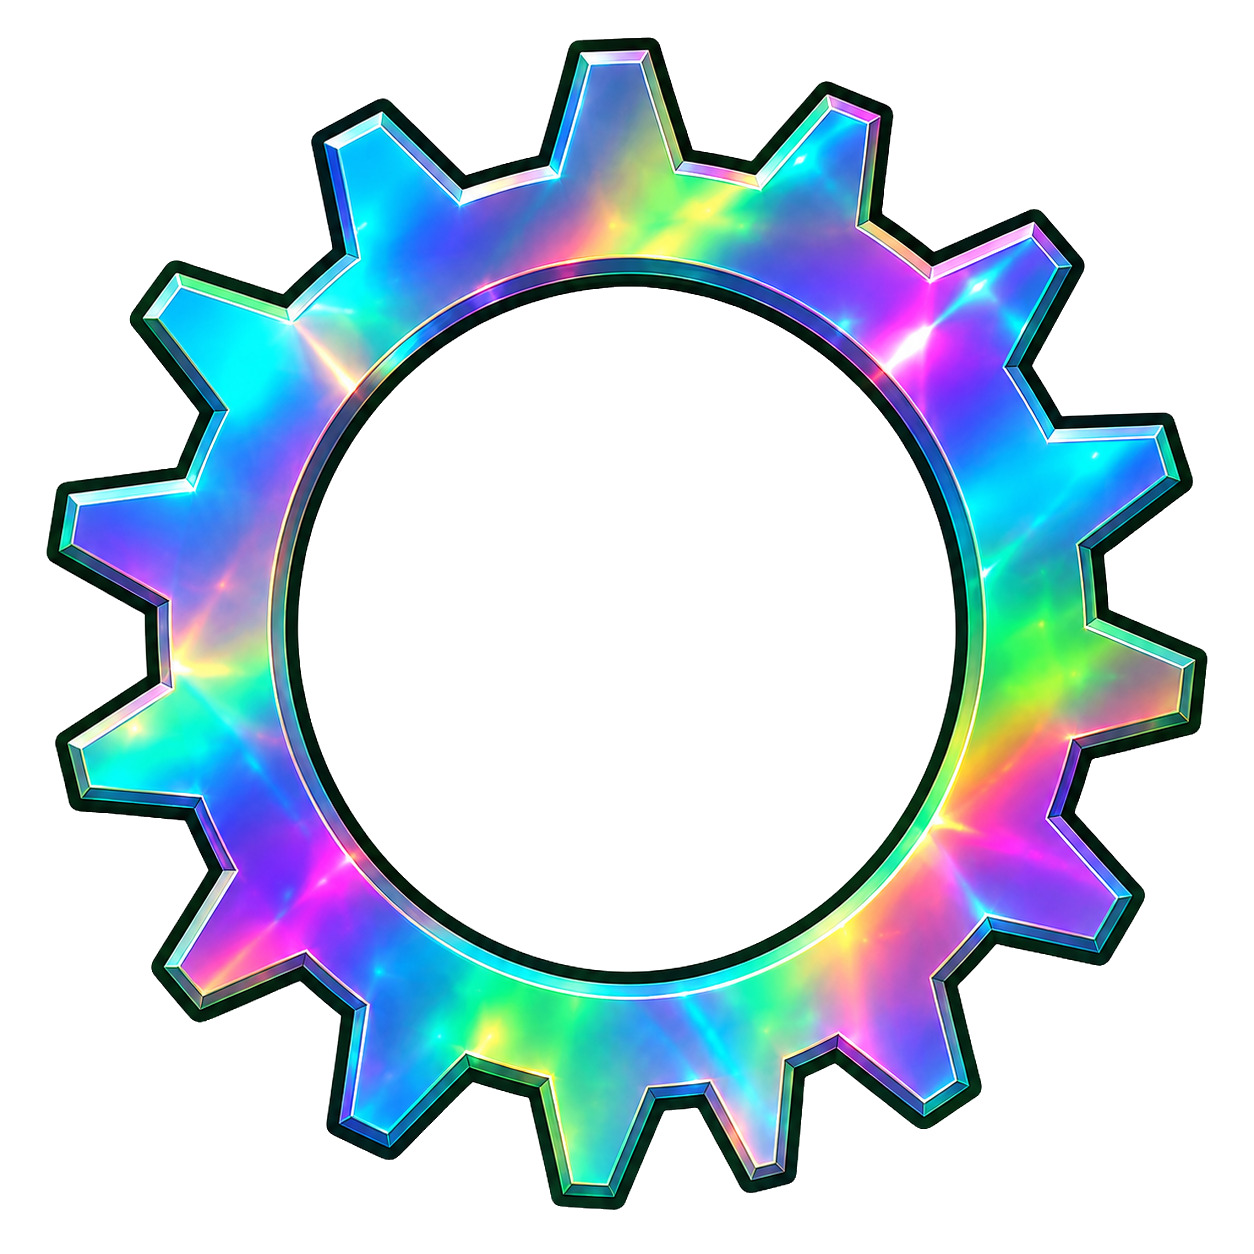
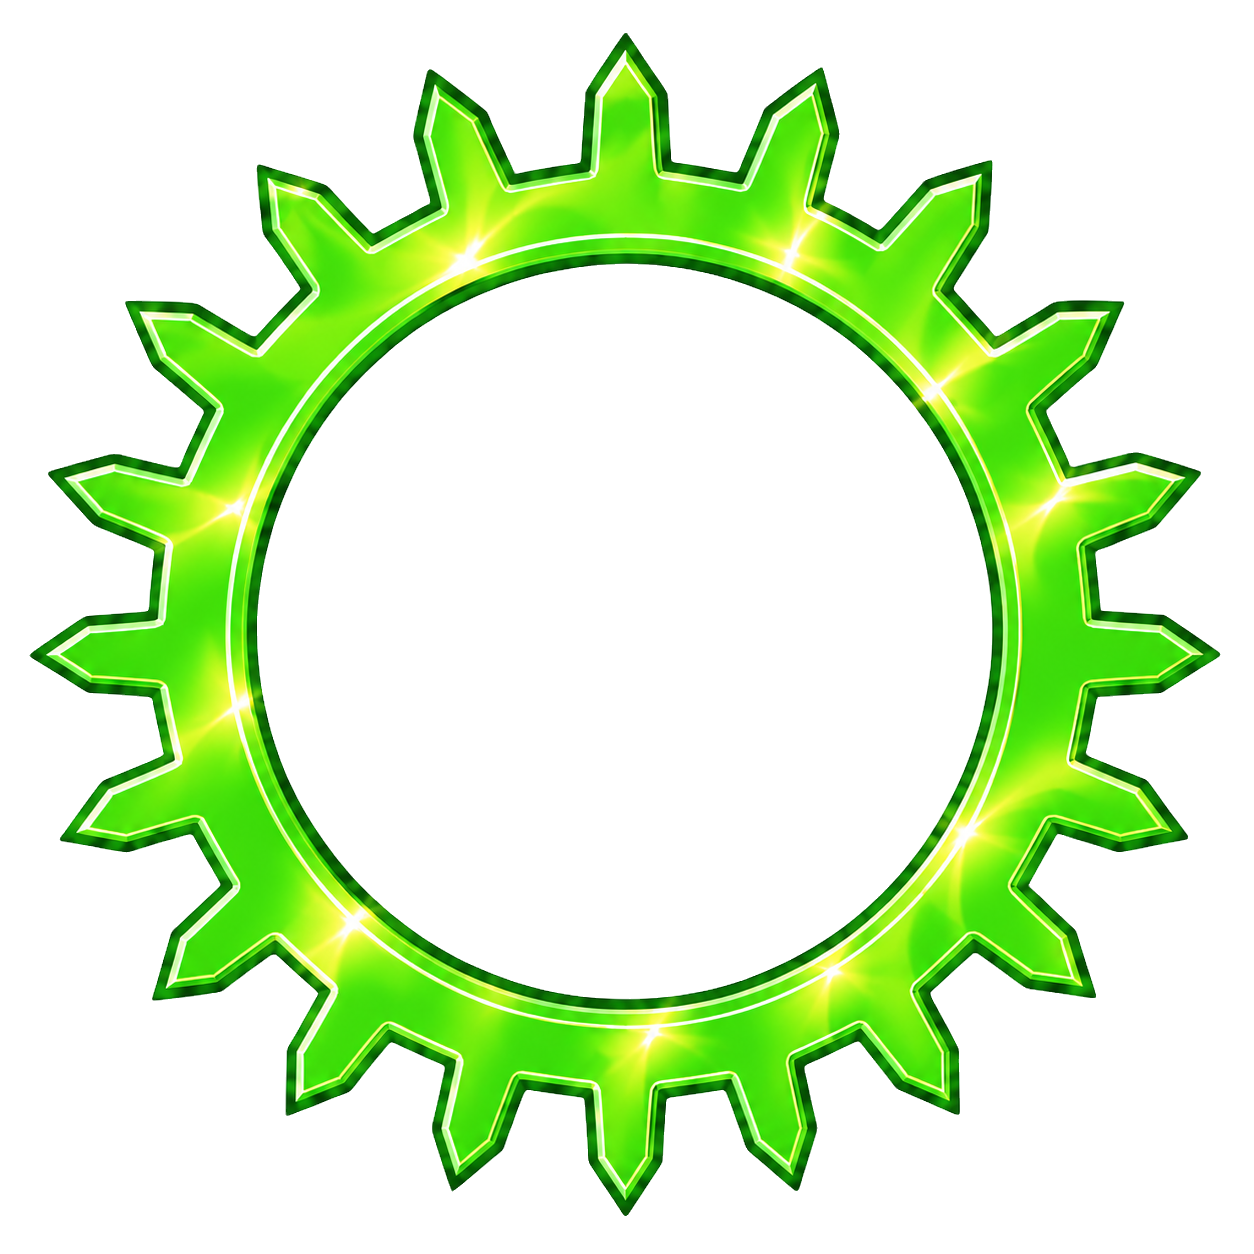
feat: add animated holographic gear effect and aura overlay

diff --git a/app/globals.css b/app/globals.css
@@ -2429,18 +2429,89 @@
   0%, 100% { opacity: 0.35; }
   50%      { opacity: 0.7; }
 }
+/* Brilho holográfico: o contorno da engrenagem troca de cor em loop */
+@keyframes gp-gear-holo {
+  0% {
+    filter:
+      drop-shadow(0 0 4px rgba(140, 255, 170, 0.95))
+      drop-shadow(0 0 10px rgba(0, 230, 255, 0.7))
+      drop-shadow(0 0 18px rgba(180, 90, 255, 0.45));
+  }
+  25% {
+    filter:
+      drop-shadow(0 0 4px rgba(120, 240, 255, 0.95))
+      drop-shadow(0 0 10px rgba(180, 90, 255, 0.7))
+      drop-shadow(0 0 18px rgba(255, 90, 200, 0.45));
+  }
+  50% {
+    filter:
+      drop-shadow(0 0 4px rgba(255, 140, 235, 0.95))
+      drop-shadow(0 0 10px rgba(255, 210, 90, 0.7))
+      drop-shadow(0 0 18px rgba(120, 255, 180, 0.45));
+  }
+  75% {
+    filter:
+      drop-shadow(0 0 4px rgba(255, 235, 130, 0.95))
+      drop-shadow(0 0 10px rgba(120, 255, 190, 0.7))
+      drop-shadow(0 0 18px rgba(0, 200, 255, 0.45));
+  }
+  100% {
+    filter:
+      drop-shadow(0 0 4px rgba(140, 255, 170, 0.95))
+      drop-shadow(0 0 10px rgba(0, 230, 255, 0.7))
+      drop-shadow(0 0 18px rgba(180, 90, 255, 0.45));
+  }
+}
+/* Aura em arco-íris girando por trás da engrenagem */
+@keyframes gp-gear-aura {
+  from { transform: rotate(0deg); }
+  to   { transform: rotate(-360deg); }
+}
+@keyframes gp-gear-aura-pulse {
+  0%, 100% { opacity: 0.35; }
+  50%      { opacity: 0.7; }
+}
 
 .gp-equip-chain {
   animation: gp-gear-in 0.18s ease-out both;
 }
+/* Camada que gira */
 .gp-equip-chain__gear {
   animation: gp-gear-spin var(--gear-dur, 6s) linear infinite;
   animation-direction: var(--gear-dir, normal);
-  filter: drop-shadow(0 0 5px rgba(120, 255, 235, 0.55));
-  opacity: 0.85;
+  opacity: 0.9;
+}
+/* A imagem recebe o brilho holográfico (separado do giro para que o
+   filter animado não conflite com o transform) */
+.gp-equip-chain__gear img {
+  animation: gp-gear-holo 3.2s linear infinite;
+}
+.gp-equip-chain__aura {
+  background: conic-gradient(
+    from 0deg,
+    rgba(120, 255, 180, 0.9),
+    rgba(0, 225, 255, 0.9),
+    rgba(150, 110, 255, 0.9),
+    rgba(255, 110, 210, 0.9),
+    rgba(255, 225, 110, 0.9),
+    rgba(120, 255, 180, 0.9)
+  );
+  mask-image: radial-gradient(circle, transparent 46%, black 60%, black 78%, transparent 92%);
+  -webkit-mask-image: radial-gradient(circle, transparent 46%, black 60%, black 78%, transparent 92%);
+  filter: blur(7px);
+  animation:
+    gp-gear-aura 5s linear infinite,
+    gp-gear-aura-pulse 2.4s ease-in-out infinite;
 }
 .gp-equip-chain__halo {
   animation: gp-gear-halo 1.8s ease-in-out infinite;
+}
+
+@media (prefers-reduced-motion: reduce) {
+  .gp-equip-chain__aura,
+  .gp-equip-chain__gear img {
+    animation: none;
+  }
 }
 
 /* Static resting shadow for field cards that shouldn't animate

diff --git a/components/game/equip-chain-overlay.tsx b/components/game/equip-chain-overlay.tsx
@@ -20,6 +20,8 @@ export function EquipChainOverlay({
     <div className="gp-equip-chain pointer-events-none absolute -inset-2 z-40" aria-hidden="true">
       {/* Brilho suave e transparente em volta da carta */}
       <div className="gp-equip-chain__halo absolute inset-1 rounded-sm bg-cyan-300/20 blur-[6px]" />
+      {/* Aura holográfica colorida girando em volta da engrenagem */}
+      <div className="gp-equip-chain__aura absolute -inset-1 rounded-full" />
       {/* Engrenagem girando */}
       <div
         className="gp-equip-chain__gear absolute inset-0"
